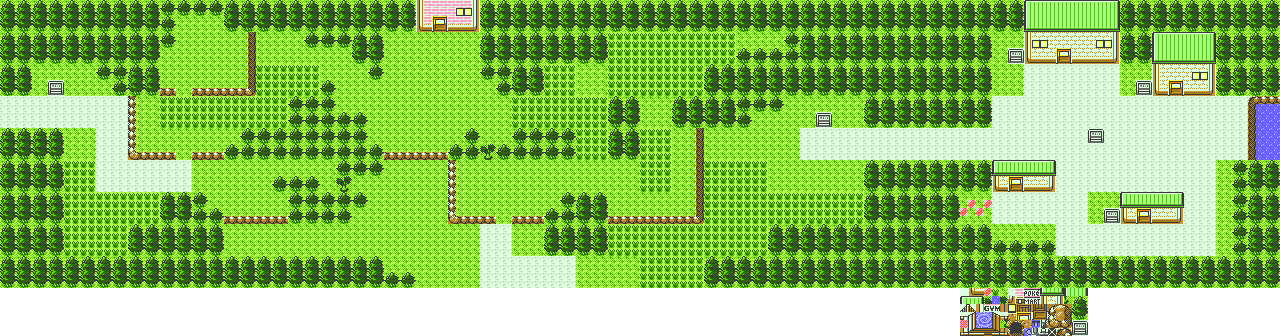
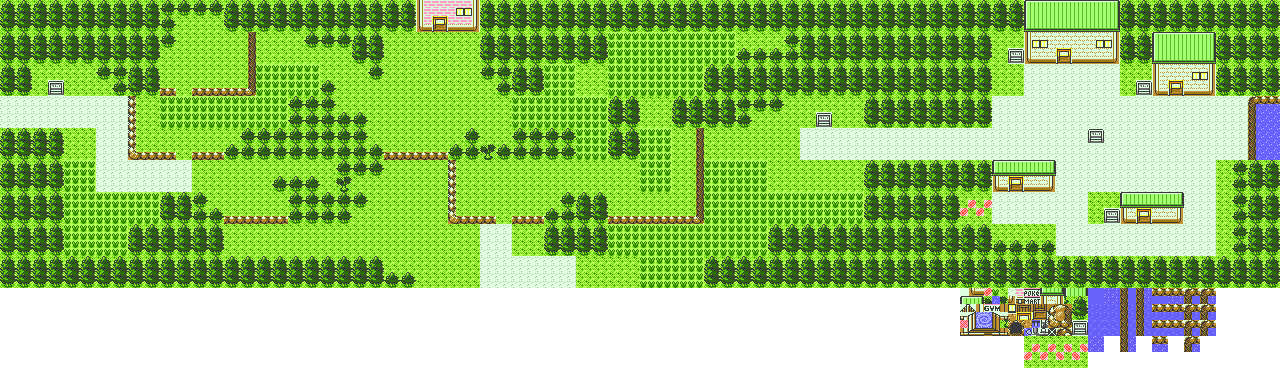
animated tiles

diff --git a/src/tile.rs b/src/tile.rs
@@ -1,6 +1,6 @@
-use crate::{ivec2::IVec2, vec2::Vec2};
+use crate::{ivec2::IVec2, vec2::Vec2, TILE_SIZE};
 use ldtk2::Ldtk;
-use std::collections::HashMap;
+use std::{collections::HashMap, time::Duration};
 
 pub struct CurrentLevelId(pub String);
 
@@ -36,12 +36,44 @@ pub struct TileData {
     pub position: IVec2,
     pub traversable: bool,
     pub transition: Option<Transition>,
+    pub animation: Option<TileAnimation>,
 }
 
 #[derive(Debug, Clone)]
 pub struct Transition {
     pub entity_id: EntityId,
     pub destination: EntityId,
+}
+
+#[derive(Debug, Clone)]
+pub struct TileAnimation {
+    pub frames: Vec<IVec2>,         // Positions of each frame in the tileset
+    pub frame_duration: Duration,   // How long each frame should display
+    pub current_frame: usize,       // Current frame index
+    pub accumulated_time: Duration, // Time accumulated since last frame change
+}
+
+impl TileAnimation {
+    pub fn new(frames: Vec<IVec2>, frame_duration: Duration) -> Self {
+        Self {
+            frames,
+            frame_duration,
+            current_frame: 0,
+            accumulated_time: Duration::ZERO,
+        }
+    }
+
+    pub fn update(&mut self, delta_time: Duration) {
+        self.accumulated_time += delta_time;
+        if self.accumulated_time >= self.frame_duration {
+            self.current_frame = (self.current_frame + 1) % self.frames.len();
+            self.accumulated_time -= self.frame_duration;
+        }
+    }
+
+    pub fn current_position(&self) -> IVec2 {
+        self.frames[self.current_frame]
+    }
 }
 
 impl TileMap {
@@ -176,11 +208,15 @@ impl TileMap {
             );
             let transition = entrance_transitions.get(&grid_pos).cloned();
 
+            let tile_custom_data = tileset.custom_data.iter().find(|t| t.tile_id == tile.t);
+            let animation = read_animation_data(tile_custom_data, tileset.c_wid);
+
             let tile_data = TileData {
                 tileset_position: IVec2::new(tile.src[0], tile.src[1]),
                 position: IVec2::new(tile.px[0], tile.px[1]),
                 traversable,
                 transition,
+                animation,
             };
 
             tiles.insert(
@@ -235,4 +271,40 @@ impl TileMap {
     pub fn initial_level_id(&self) -> String {
         self.initial_level_id.clone()
     }
+}
+
+/// tile custom data must contain animation data on this format:
+/// animationTiles:1,2,3 (these are the tile ids in the tileset)
+/// frameTime:100 (time in ms for each frame)
+fn read_animation_data(
+    tile_custom_data: Option<&ldtk2::TileCustomMetadata>,
+    tileset_width: i64,
+) -> Option<TileAnimation> {
+    tile_custom_data?;
+    if !tile_custom_data?.data.starts_with("animationTiles") {
+        return None;
+    }
+
+    let custom_data_lines = tile_custom_data?.data.lines().collect::<Vec<&str>>();
+    let animation_frames = custom_data_lines[0]
+        .split_once(":")?
+        .1
+        .split(',')
+        .map(|id| {
+            let id_u32 = id.parse::<u32>().expect("Failed to parse tile id");
+            tile_id_to_position(id_u32, tileset_width)
+        })
+        .collect::<Vec<IVec2>>();
+    let frame_time =
+        custom_data_lines[1].split_once(":")?.1.parse::<u64>().expect("Failed to parse frame time");
+
+    let tile_animation = TileAnimation::new(animation_frames, Duration::from_millis(frame_time));
+
+    Some(tile_animation)
+}
+
+fn tile_id_to_position(id: u32, tileset_width: i64) -> IVec2 {
+    let x = id as i64 % tileset_width * TILE_SIZE as i64;
+    let y = id as i64 / tileset_width * TILE_SIZE as i64;
+    IVec2::new(x, y)
 }

diff --git a/src/systems/tile_animation.rs b/src/systems/tile_animation.rs
@@ -1,0 +1,30 @@
+use super::System;
+use crate::{input::Input, resource::Resources, tile::TileAnimation};
+use hecs::World;
+use pixels::Pixels;
+use std::time::Duration;
+
+pub struct TileAnimationSystem;
+
+impl System for TileAnimationSystem {
+    fn update(
+        &self,
+        _world: &mut World,
+        resources: &mut Resources,
+        _pixels: &mut Pixels,
+        _input: &Input,
+        delta_time: Duration,
+    ) {
+        let current_level =
+            resources.tilemap.levels.get_mut(&resources.current_level_id.0).unwrap();
+
+        // Update all animated tiles
+        for tile_data in current_level.tiles.values_mut() {
+            if let Some(animation) = &mut tile_data.animation {
+                animation.update(delta_time);
+                // Update the tile's position to the current animation frame
+                tile_data.tileset_position = animation.current_position();
+            }
+        }
+    }
+}

diff --git a/src/main.rs b/src/main.rs
@@ -17,6 +17,7 @@ use pixels_engine::systems::debug_grid::DebugGridSystem;
 use pixels_engine::systems::level_transition::{LevelTransitionSystem, ScreenTransition};
 use pixels_engine::systems::movement::MovementSystem;
 use pixels_engine::systems::sprite_render::SpriteRenderSystem;
+use pixels_engine::systems::tile_animation::TileAnimationSystem;
 use pixels_engine::systems::tile_render::TileRenderSystem;
 use pixels_engine::systems::SystemContainer;
 use pixels_engine::tile::{CurrentLevelId, TileMap};
@@ -87,6 +88,7 @@ impl Application {
 
         systems.add(MovementSystem);
         systems.add(AnimationSystem);
+        systems.add(TileAnimationSystem);
         systems.add(CameraFollowSystem);
         if cfg!(feature = "debug") {
             systems.add(DebugGridSystem);

diff --git a/src/systems/mod.rs b/src/systems/mod.rs
@@ -10,6 +10,7 @@ pub mod debug_grid;
 pub mod level_transition;
 pub mod movement;
 pub mod sprite_render;
+pub mod tile_animation;
 pub mod tile_render;
 
 pub trait System {
